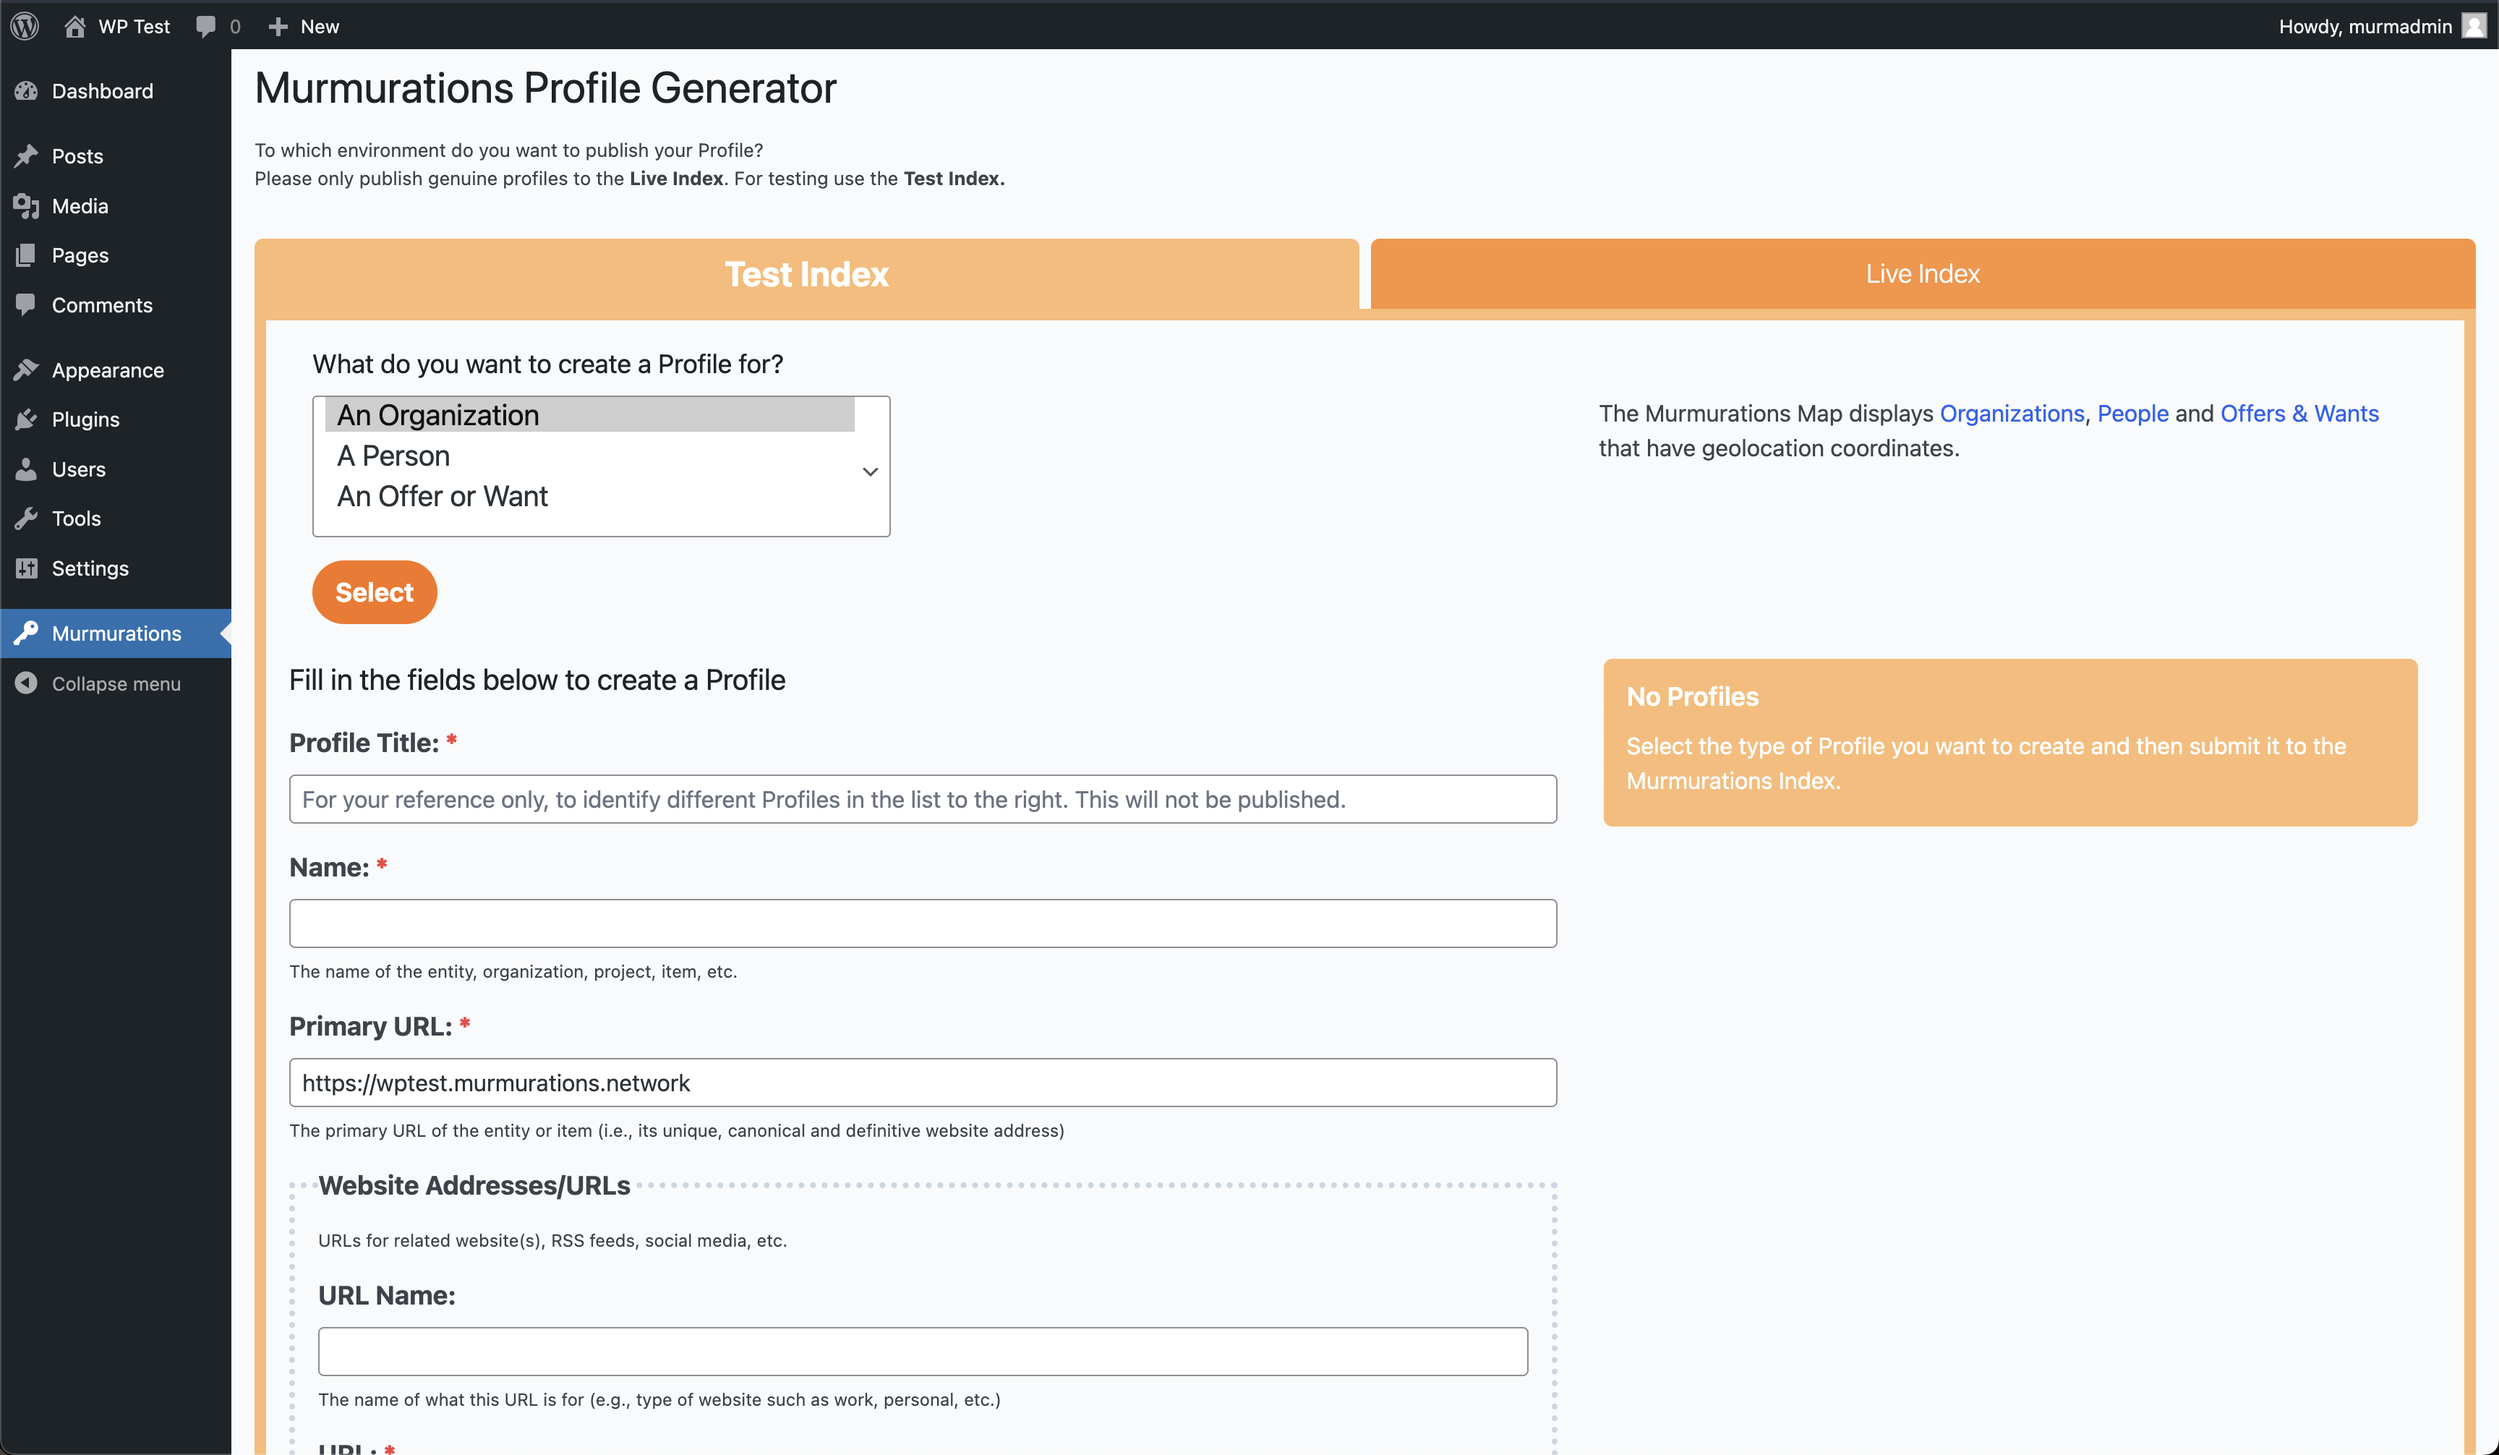
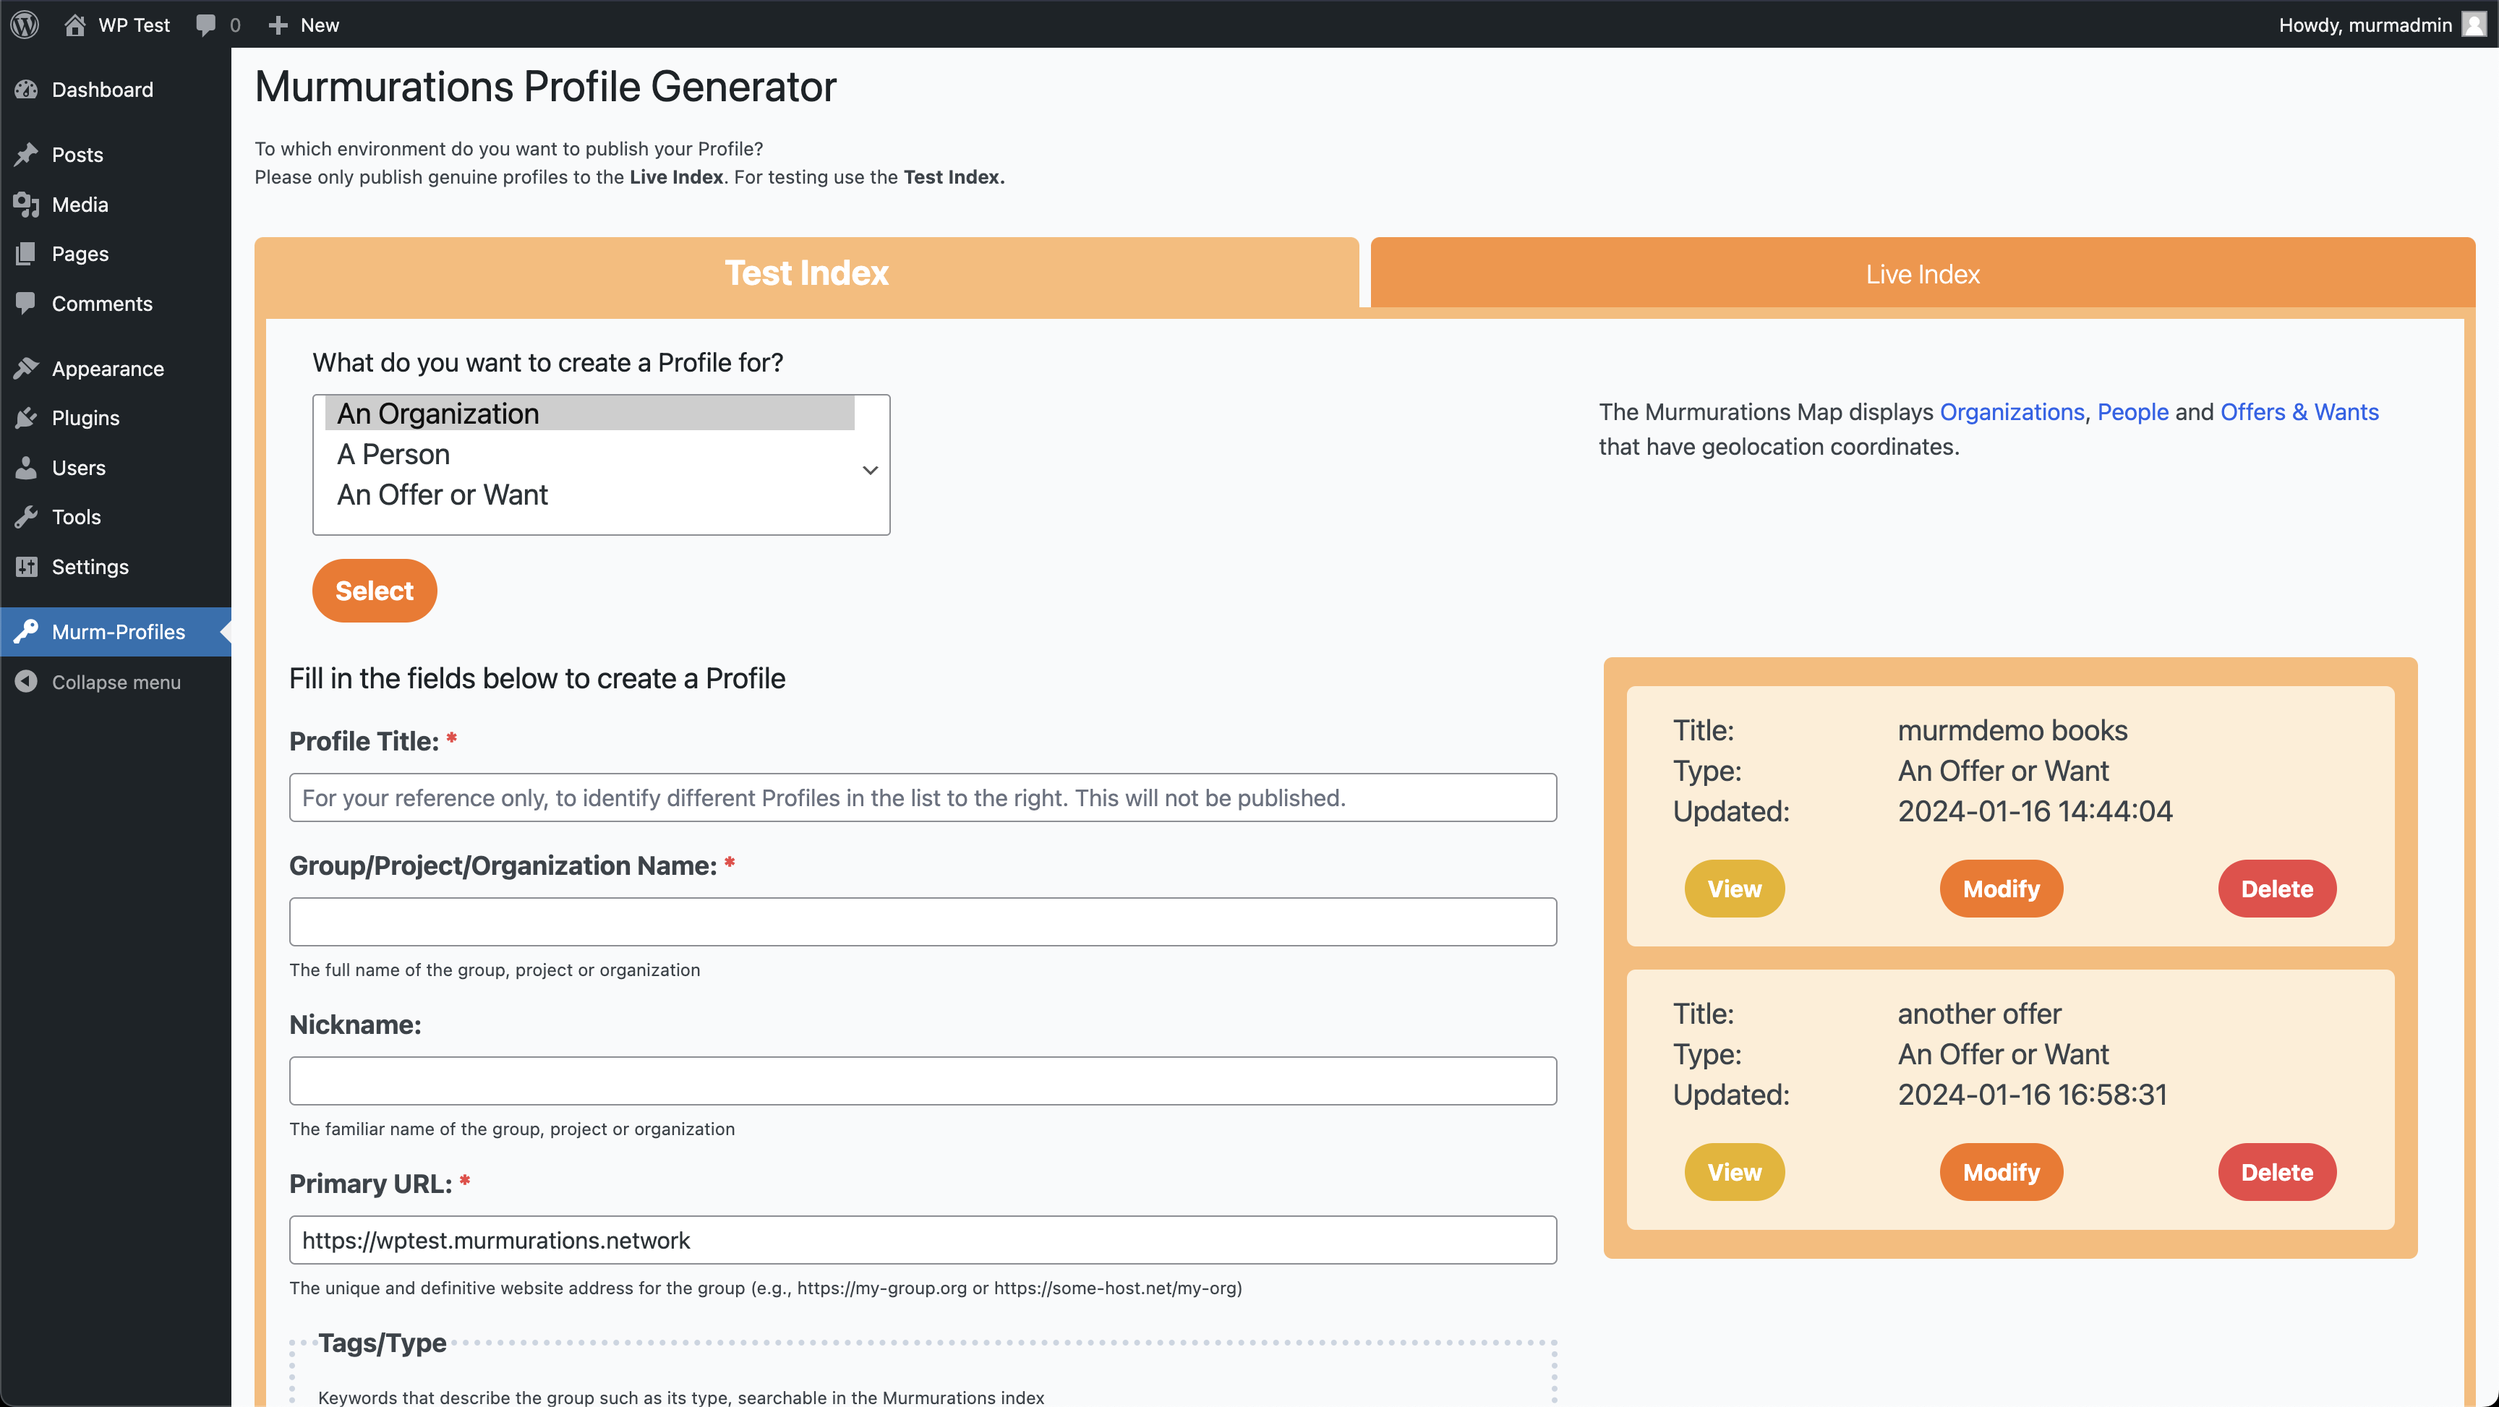
docs: update README and screenshots

diff --git a/README.md b/README.md
@@ -2,16 +2,18 @@
 **Contributors:** [geoffturk](https://profiles.wordpress.org/geoffturk/), [twang443](https://profiles.wordpress.org/twang443/)  
 **Donate link:** https://opencollective.com/murmurations  
 **Tags:** murmurations, network, regenerative economy, map  
-**Requires at least:** 6.0.5  
-**Tested up to:** 6.2.2  
+**Requires at least:** 6.4.2  
+**Tested up to:** 6.4.2  
 **Stable tag:** 1.0.0  
-**Requires PHP:** 7.4  
+**Requires PHP:** 8.0  
 **License:** GPLv3 or later  
 **License URI:** https://www.gnu.org/licenses/gpl-3.0.html  
 
-Generate a profile for your organization and share it in the Murmurations network
+Generate a profile for your organization, yourself or an offer/want and share it in the Murmurations network
 
 ## Description ##
+
+This plugin enables you to publish information about yourself or your organization to the Murmurations network, modify that data as it changes, and ultimately remove it when it is no longer relevant. Data aggregators can discover your information through the Murmurations index and add it to their maps and directories if it is relevant to the type of information they aggregate.
 
 Murmurations is a distributed data sharing network built to help connect regenerative economy projects and organizations and make them visible to the world and each other.
 
@@ -28,7 +30,7 @@ To enable these entities to work together, Murmurations provides:
 - An [Index](https://index.murmurations.network/v2/nodes), a [Library](https://library.murmurations.network/v2/schemas) and a user-friendly data host (our [Profile Generator](https://tools.murmurations.network/profile-generator))) which enables organizations to quickly add themselves to the network.
 - [Open source plug-ins and other code](https://github.com/MurmurationsNetwork) to make it as easy as possible to use, share and contribute data to the network in a decentralized way.
 
-The initial use case for Murmurations was to facilitate decentralized mapping of purpose-driven and solidarity economy organizations and projects.
+The initial use case for Murmurations is to facilitate decentralized mapping of purpose-driven and solidarity economy organizations and projects.
 
 Further historical background is in the 2019 [Murmurations Whitepaper](https://murmurations.network/wp-content/uploads/2019/09/murmurations-white-paper-v0.1.0.pdf).
 
@@ -38,7 +40,7 @@ This section describes how to install the plugin and get it working.
 
 1. Upload the plugin files to the `/wp-content/plugins` directory, or install the plugin through the WordPress plugins screen directly.
 2. Activate the plugin through the 'Plugins' screen in WordPress.
-3. Select the Murmurations option in the Admin menu and then start submitting profiles to the Murmurations Network.
+3. Select the Murm-Profiles option in the Admin menu and then start submitting profiles to the Murmurations Index, where they can be discovered by map makers and other data aggregators.
 
 ## Frequently Asked Questions ##
 
